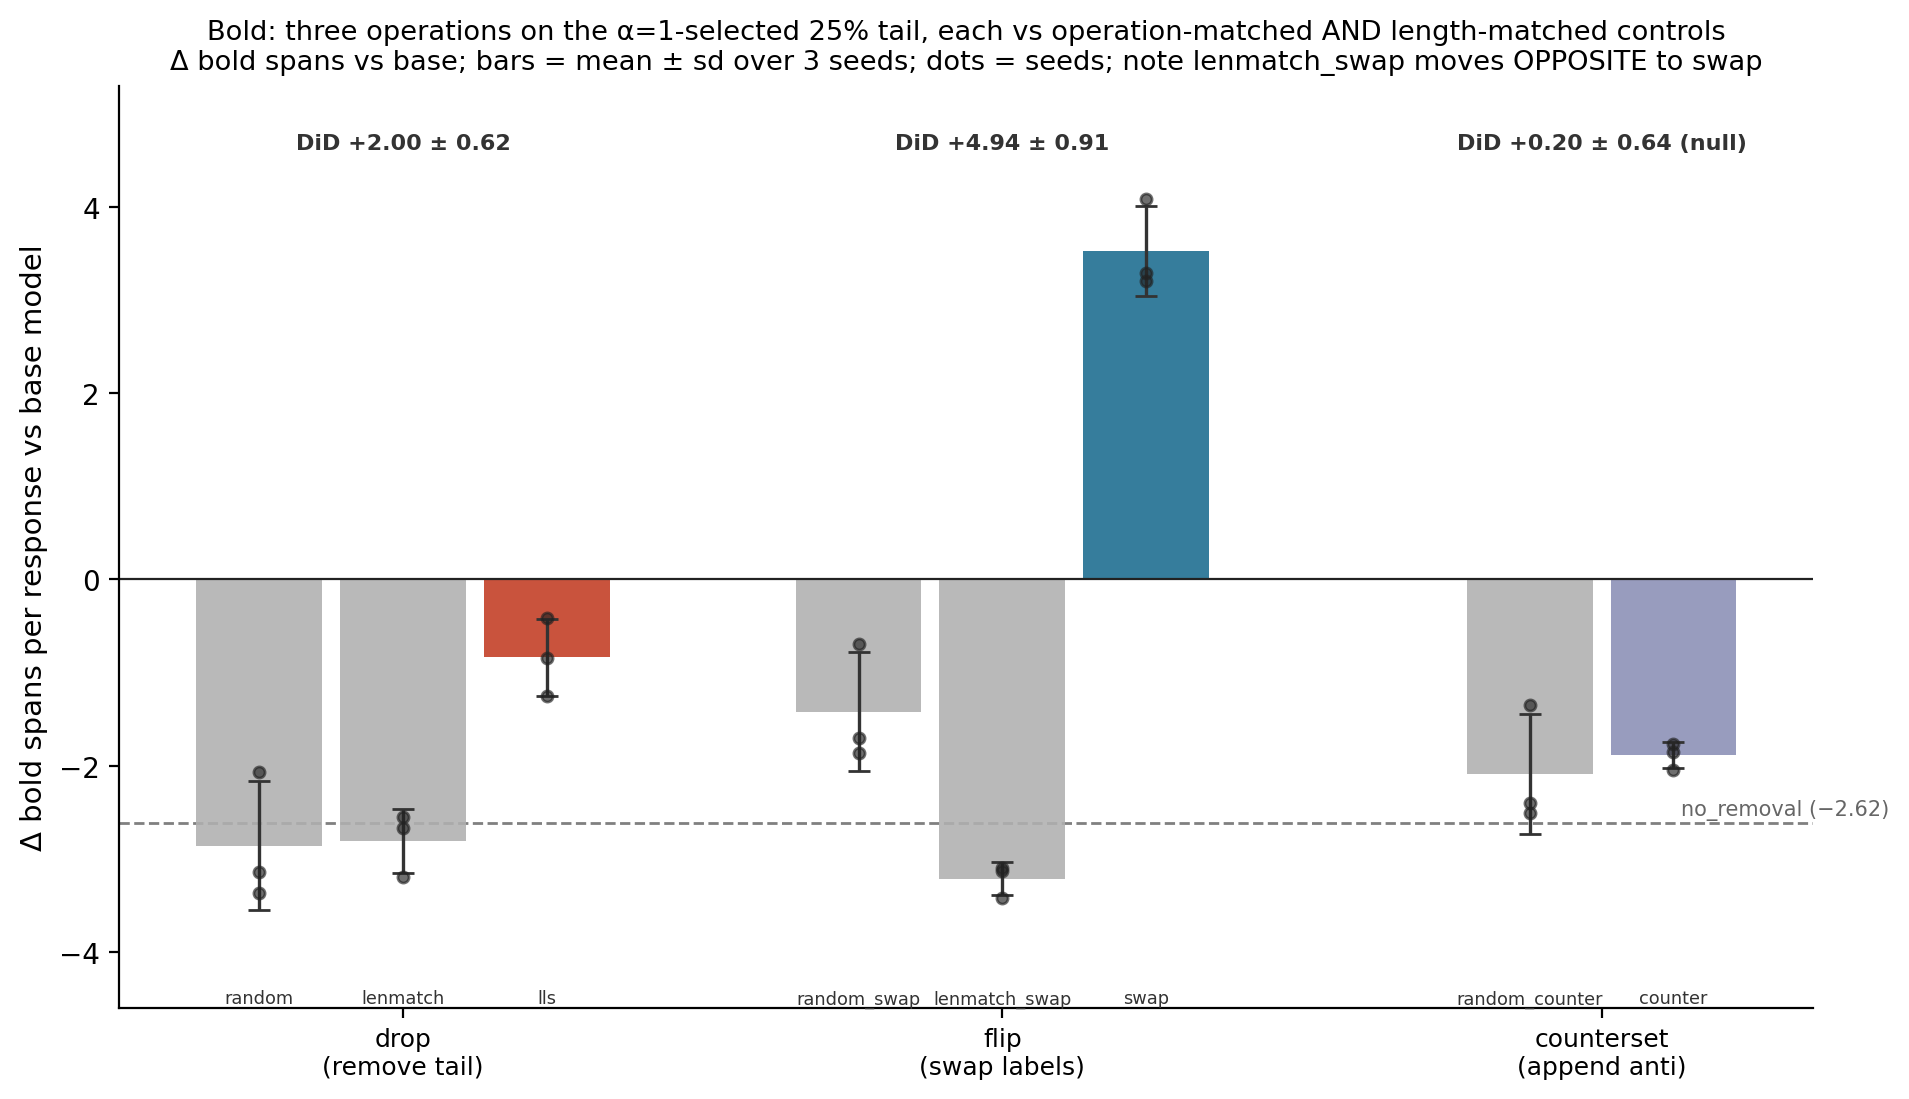
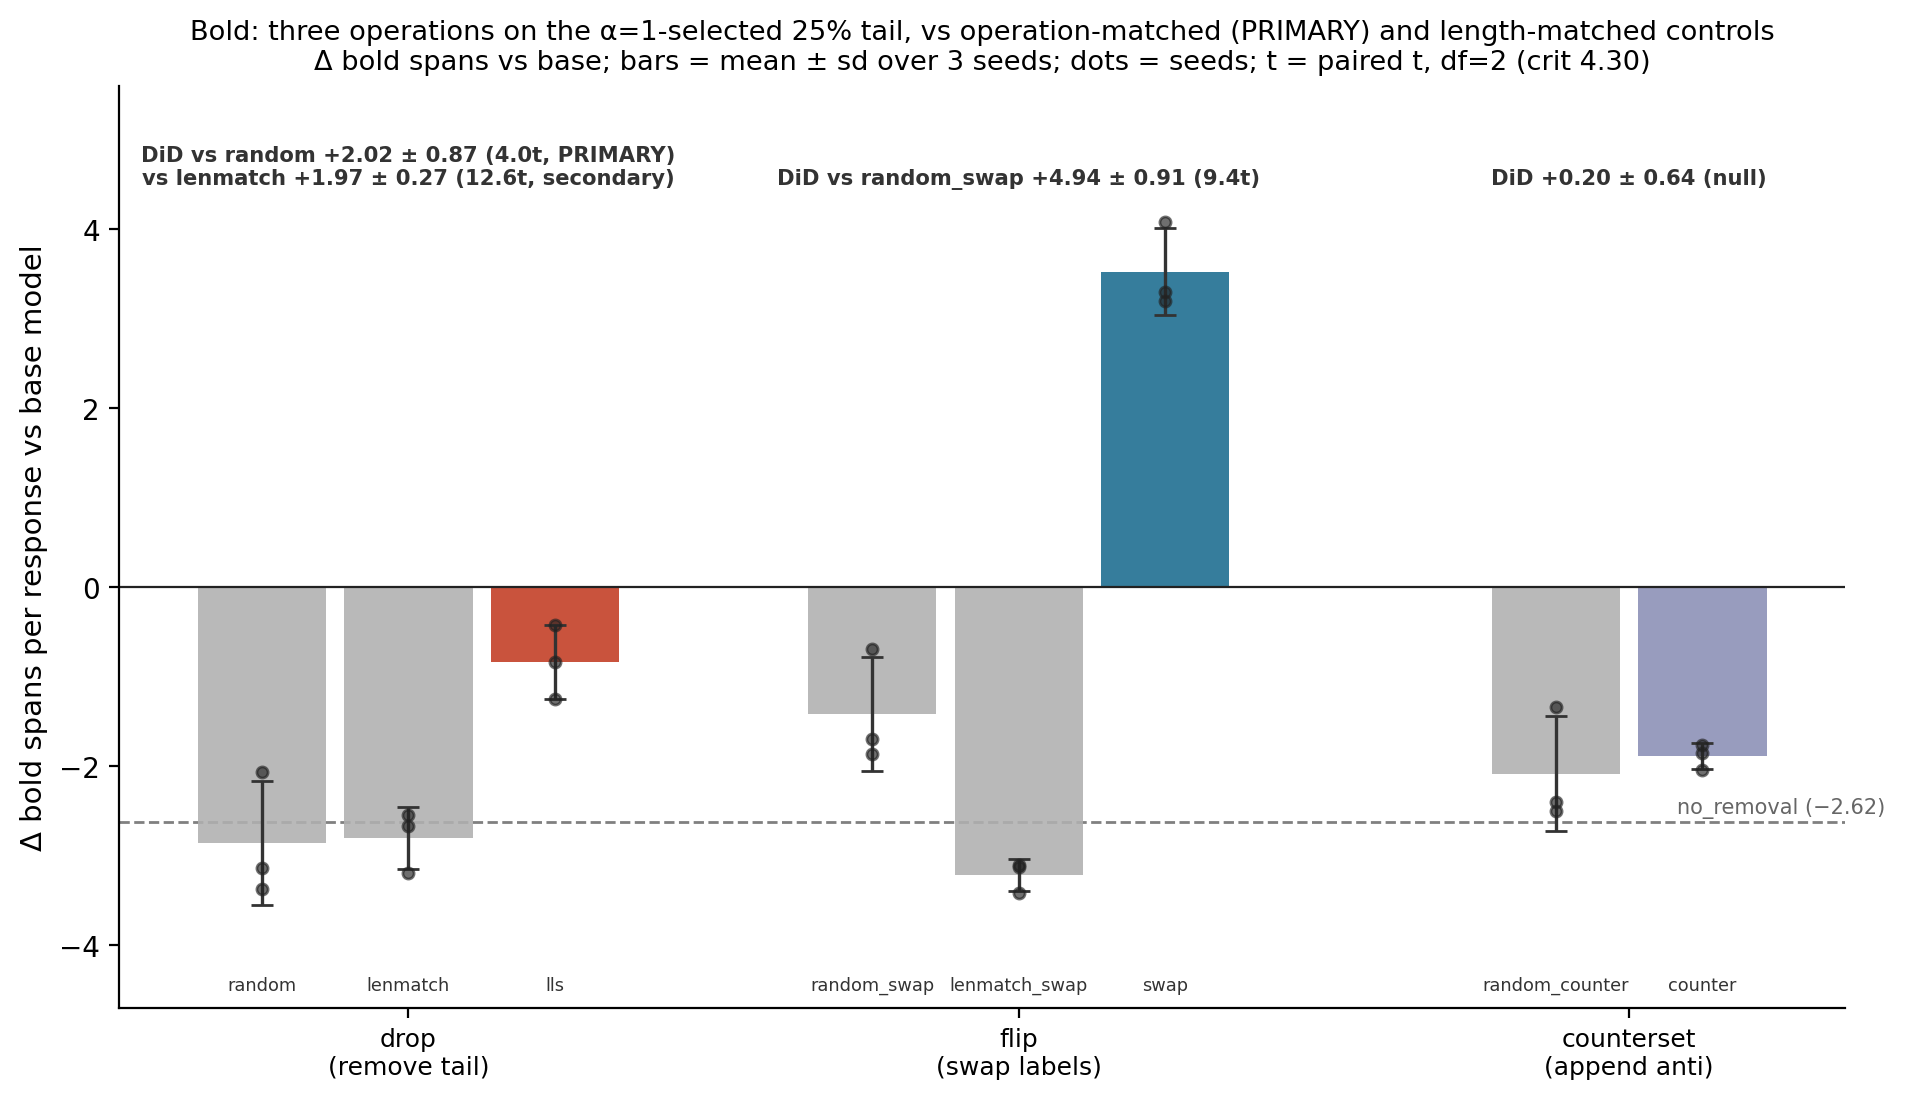
oops forgot to push these

diff --git a/progress/progress2.md b/progress/progress2.md
@@ -141,7 +141,7 @@ Both mu positive → `--direction positive` chosen for both. (Later falsified fo
 | arm | per-seed deltas | mean (sd) | % prevented |
 |---|---|---|---|
 | no_removal | −2.47 −2.64 −2.74 | −2.62 (0.11–0.21) | — |
-| LLS alpha=1 | −0.84 −0.42 −1.25 | −0.84 (0.42) | **68.2%**, no overshoot, **4.91 sigma vs random** |
+| LLS alpha=1 | −0.84 −0.42 −1.25 | −0.84 (0.42) | **68.2%**, no overshoot; paired t(2): **12.6 vs lenmatch**, 4.04 vs random (legacy "4.91 sigma" was non-paired; see §10b) |
 | LLS alpha=.37 | −0.64 +0.01 +0.50 | −0.05 (0.57) | 98.3% but 2/3 seeds ABOVE base |
 | keyword | −0.81 −0.66 −0.64 | −0.70 (**0.091**) | 73.2% |
 | probe | −1.95 −1.31 −1.62 | −1.63 (0.32) | 37.9%, beats random 2.8 sigma |
@@ -532,6 +532,21 @@ bundle phenomenology (57% shared tails; refusal/bold co-movement under two diffe
 and why filtering "for a behaviour" generalises badly. This is R&L's persona-bundling hypothesis
 given a number. Future-work bridge (one paragraph, not attempted): correlate PC1 doc scores with
 activation-space persona-vector projections.
+
+## 10b. Statistics convention (added 2026-09-05 after reviewer audit)
+
+Every DiD "± x" in this document is **sd(treatment_per_seed − control_per_seed, ddof=1)** —
+per-seed PAIRED differences (arms within a seed share train_seed and process), Case A of the
+reviewer's taxonomy. "~N sigma" = mean/(sd/sqrt(3)) = the paired t statistic with **df = 2**
+(95% critical value 4.30), and should be read as such, not as normal-quantile sigmas.
+Audit at t(2), alpha=.05 (bold drop CORRECTED 2026-09-05 after reviewer reconciliation check —
+the legacy "4.91 sigma" and an erroneous ±0.62 were both non-paired artifacts; correct paired
+values: vs random +2.02 ± 0.87, t=4.04, p≈.056 (random's per-seed reselection dominates); vs
+lenmatch +1.97 ± 0.27, **t=12.6** ✓ — report BOTH):
+bold drop vs lenmatch 12.6 ✓ / vs random 4.0 (marginal), bold flip 9.4 ✓, VF backfire count 4.6 ✓ (marginal),
+VF swap-neg binary 5.8 ✓, bs drop binary 9.2 ✓, bs swap 4.8 ✓, all four judge DiDs 5.1–18.9 ✓.
+Two demotions: bs drop COUNT t=3.1 (p≈.09 — the binary and judge carry that family) and
+bold_droppos t=3.0 → report as "below control in all 3 seeds, suggestive", not ~3 sigma.
 
 ## 11. Bugs and mistakes (mine, this session; recorded like progress1 §8)
 
